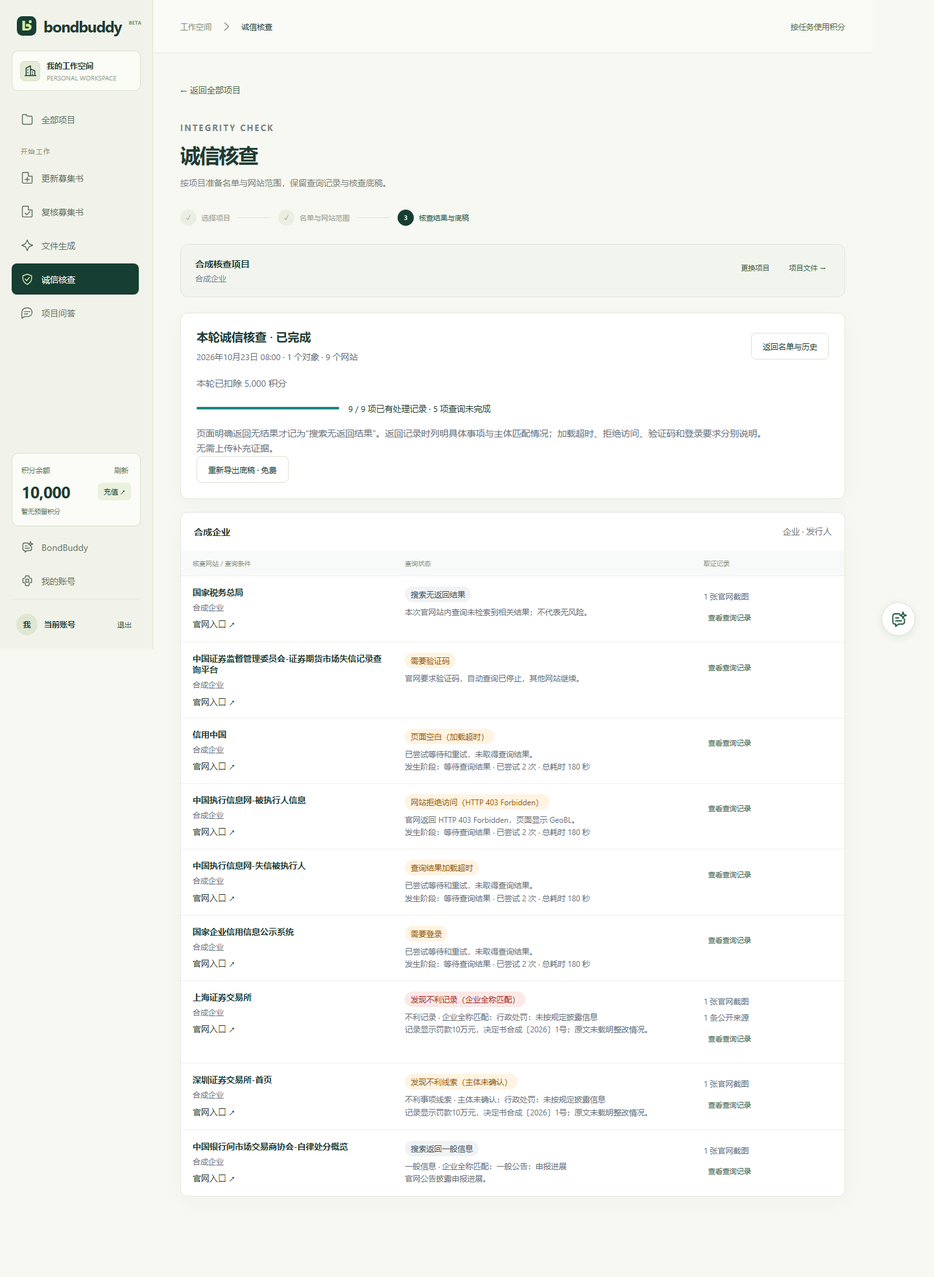
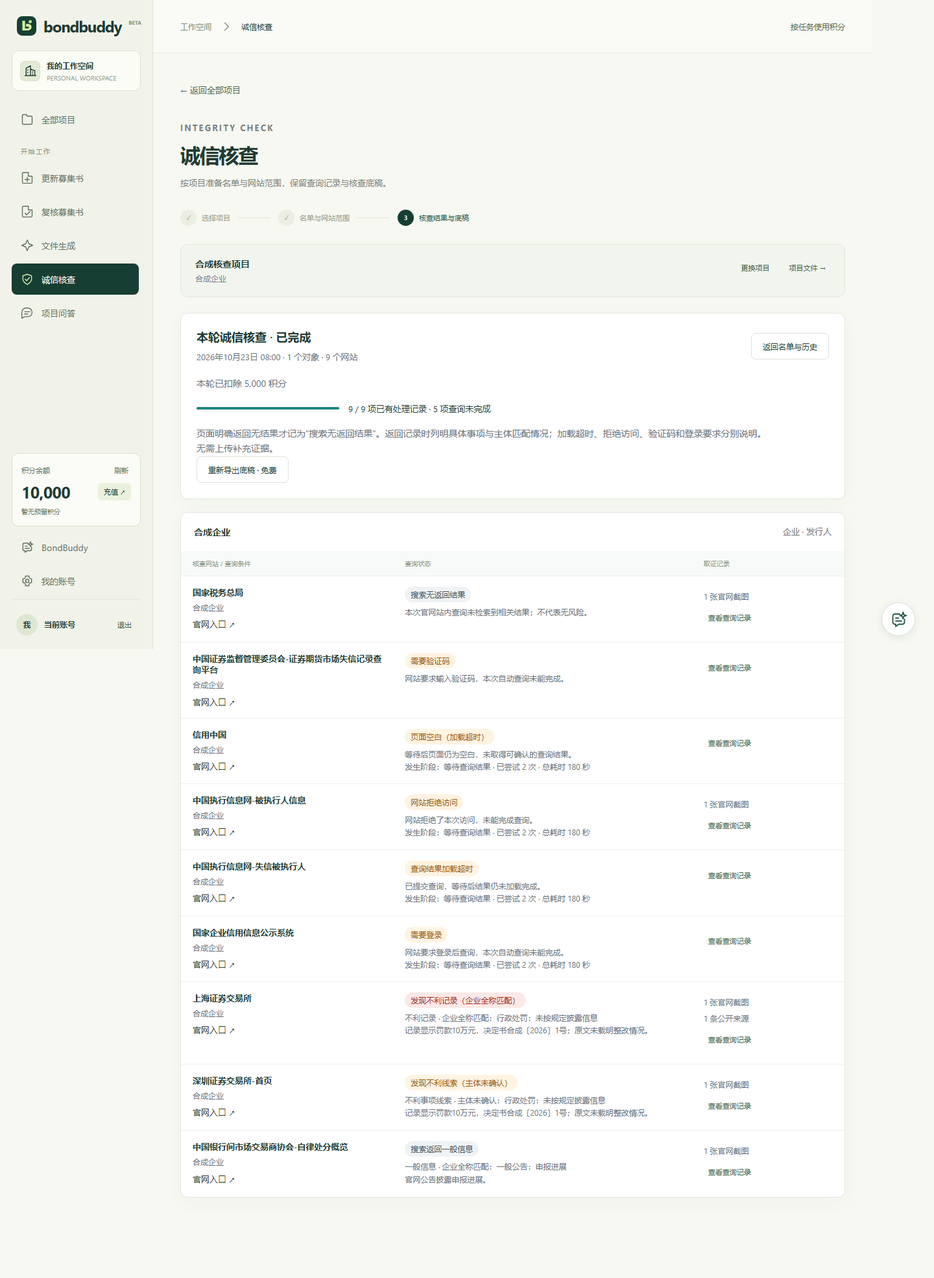
fix: use plain customer wording for integrity query failures

diff --git a/packages/contracts/src/integrity-presentation.ts b/packages/contracts/src/integrity-presentation.ts
@@ -3,22 +3,44 @@ import type {IntegrityDiagnostic,IntegrityFinding,IntegrityRecord} from './integ
 const diagnosticLabels:Record<IntegrityDiagnostic['code'],string>={
  results:'搜索返回结果',no_results:'搜索无返回结果',captcha_required:'需要验证码',login_required:'需要登录',authentication_required:'需要验证码和登录',
  access_denied:'网站拒绝访问',http_error:'网站响应错误',blank_page_timeout:'页面空白（加载超时）',page_load_timeout:'页面加载超时',
- result_load_timeout:'查询结果加载超时',query_form_unavailable:'查询控件未就绪',result_unverified:'本次查询结果未确认',network_error:'网络连接失败',page_error:'网站页面报错',operation_failed:'查询操作未完成'
+ result_load_timeout:'查询结果加载超时',query_form_unavailable:'查询页面尚未就绪',result_unverified:'本次查询结果未确认',network_error:'网络连接失败',page_error:'网站页面报错',operation_failed:'查询操作未完成'
 };
 export function integrityDiagnosticLabel(d:IntegrityDiagnostic){
- return diagnosticLabels[d.code]+(d.http_status?`（HTTP ${d.http_status}${d.http_status===403?' Forbidden':''}）`:'');
+ return diagnosticLabels[d.code];
 }
+const diagnosticDescriptions:Record<IntegrityDiagnostic['code'],string>={
+ results:'官网搜索返回结果，具体事项及主体关联以本次查询记录为准。',
+ no_results:'官网已响应本次查询，页面明确显示无结果；仅限本次查询词和页面范围。',
+ captcha_required:'网站要求输入验证码，本次自动查询未能完成。',
+ login_required:'网站要求登录后查询，本次自动查询未能完成。',
+ authentication_required:'网站要求登录并输入验证码，本次自动查询未能完成。',
+ access_denied:'网站拒绝了本次访问，未能完成查询。',
+ http_error:'网站未正常返回查询页面或结果，本次查询未完成。',
+ blank_page_timeout:'等待后页面仍为空白，未取得可确认的查询结果。',
+ page_load_timeout:'等待后查询页面仍未加载完成，未取得可确认的查询结果。',
+ result_load_timeout:'已提交查询，等待后结果仍未加载完成。',
+ query_form_unavailable:'页面已打开，但尚无法填写或提交查询，未取得可确认的结果。',
+ result_unverified:'已尝试查询，但尚不能确认页面内容是本次查询的结果。',
+ network_error:'未能正常连接查询网站，本次查询未完成。',
+ page_error:'网站页面显示错误，本次查询未完成。',
+ operation_failed:'本次查询操作未能完成，未取得可确认的查询结果。'
+};
 export function integrityFindingLabel(f:IntegrityFinding){
  if(f.subject_match==='different_subject')return '其他主体记录';
  if(f.subject_match==='unconfirmed')return f.nature==='adverse'?'不利事项线索 · 主体未确认':'搜索命中 · 主体未确认';
  return f.nature==='adverse'?'不利记录 · 企业全称匹配':f.nature==='information'?'一般信息 · 企业全称匹配':'事项性质待确认 · 企业全称匹配';
 }
 const cleanReason=(s:string)=>s.replace(/(?:[，；、\s]*(?:待人工补证|待补证|待人工补充信息|需要人工补充信息|请(?:人工)?上传补充证据))[。；]?/g,'').trim();
-export type IntegrityPresentation={label:string;description:string;tone:'neutral'|'warning'|'danger';group:'results'|'no_results'|'incomplete'|'not_applicable'};
+// These legacy collector phrases contain diagnostics, not business scope. Keep the saved text intact.
+const customerLimitation=(s:string)=>s
+ .replace(/截图直接采集隔离服务器桌面的完整屏幕，含浏览器和 XFCE 原生系统面板（北京时间），未叠加时间或绘制时钟栏；/g,'截图保留采集时的完整屏幕内容；')
+ .replace(/后续页面采集未完成[（(]net::[A-Z_]+[）)]/g,'后续页面采集未完成');
+export type IntegrityPresentation={label:string;description:string;limitation?:string;tone:'neutral'|'warning'|'danger';group:'results'|'no_results'|'incomplete'|'not_applicable'};
 /** One display contract for web and Word. Persisted historical observations are never rewritten. */
 export function integrityRecordPresentation(record:IntegrityRecord):IntegrityPresentation{
  const d=record.browser?.diagnostic,reason=cleanReason(record.reason);
- const view=(label:string,group:IntegrityPresentation['group'],tone:IntegrityPresentation['tone']='neutral',description=reason):IntegrityPresentation=>({label,group,tone,description});
+ const view=(label:string,group:IntegrityPresentation['group'],tone:IntegrityPresentation['tone']='neutral',description=reason):IntegrityPresentation=>({label,group,tone,description,...(record.browser?{limitation:customerLimitation(record.browser.limitation)}:{})});
+ const failure=(code:IntegrityDiagnostic['code'])=>view(diagnosticLabels[code],'incomplete','warning',diagnosticDescriptions[code]);
  if(record.status==='not_applicable')return view('不适用','not_applicable');
  if(record.status==='public_matches'){
   const findings=record.findings;
@@ -30,14 +52,17 @@ export function integrityRecordPresentation(record:IntegrityRecord):IntegrityPre
   return view('搜索返回结果（关联待确认）','results','warning',summary);
  }
  if(record.status==='no_public_results')return view('搜索无返回结果','no_results');
- if(d){const phase={open:'加载官网',query:'提交查询',results:'等待查询结果'}[d.phase];return view(integrityDiagnosticLabel(d),'incomplete','warning',`${reason}\n发生阶段：${phase}${d.attempts?` · 已尝试 ${d.attempts} 次`:''}${d.elapsed_ms!==undefined?` · 总耗时 ${Math.ceil(d.elapsed_ms/1000)} 秒`:''}`);}
+ // Derive customer copy from the cause; raw reason/detail/status remain available for diagnosis only.
+ if(d){const phase={open:'加载官网',query:'提交查询',results:'等待查询结果'}[d.phase];return view(integrityDiagnosticLabel(d),'incomplete','warning',`${diagnosticDescriptions[d.code]}\n发生阶段：${phase}${d.attempts?` · 已尝试 ${d.attempts} 次`:''}${d.elapsed_ms!==undefined?` · 总耗时 ${Math.ceil(d.elapsed_ms/1000)} 秒`:''}`);}
  // Historical free text can only support causes it explicitly records; do not guess a phase or status code.
  const http=reason.match(/\bHTTP\s*(4\d{2}|5\d{2})\b/i)??reason.match(/\b(403)\s*Forbidden\b/i);
- if(http)return view(integrityDiagnosticLabel({code:http[1]==='403'?'access_denied':'http_error',phase:'open',http_status:Number(http[1])}),'incomplete','warning');
- if(/拒绝访问|访问已被拦截|访问受限|Forbidden|GeoBL/i.test(reason))return view('网站拒绝访问','incomplete','warning');
- if(/验证码或登录|验证码\s*\/\s*登录/.test(reason))return view('验证码／登录受限（类型未记录）','incomplete','warning');
- if(/要求验证码|需要验证码/.test(reason))return view('需要验证码','incomplete','warning');
- if(/要求登录|需要登录|请先登录/.test(reason))return view('需要登录','incomplete','warning');
- if(/超时/.test(reason))return view('查询超时（阶段未记录）','incomplete','warning');
- return view('查询未完成（原因未记录）','incomplete','warning',reason?`${reason} 历史记录未保存可区分的失败原因。`:'历史记录未保存具体失败原因。');
+ if(http?.[1]==='403'||/拒绝访问|访问已被拦截|访问受限|Forbidden|GeoBL/i.test(reason))return failure('access_denied');
+ if(http)return failure('http_error');
+ if(/验证码或登录|验证码\s*\/\s*登录/.test(reason))return view('验证码／登录受限（类型未记录）','incomplete','warning','网站要求验证码或登录，历史记录未区分具体要求，本次查询未完成。');
+ if(/要求验证码|需要验证码/.test(reason))return failure('captcha_required');
+ if(/要求登录|需要登录|请先登录/.test(reason))return failure('login_required');
+ if(/net::ERR_|ECONNRESET|ECONNREFUSED|ENOTFOUND|网络连接失败/.test(reason))return failure('network_error');
+ if(/超时/.test(reason))return view('查询超时（阶段未记录）','incomplete','warning','等待后仍未完成查询，历史记录未说明在哪一步超时。');
+ if(/未能自动确定属地官网/.test(reason))return view('未能确定查询网站','incomplete','warning','未能自动确定属地官网，本项未完成查询。');
+ return view('查询未完成（原因未记录）','incomplete','warning','历史记录未保存可区分的失败原因，本次查询未完成。');
 }

diff --git a/apps/web/tests/integrity-browser.spec.ts b/apps/web/tests/integrity-browser.spec.ts
@@ -62,31 +62,36 @@ test('company region is inferred from a clear province prefix and existing value
 });
 
 test('historical access restrictions are not relabeled as captcha and require no upload',async({page})=>{
- const f=await fixture(page);f.state.rounds[0].records[1].reason='官网访问已被拦截。';
+ const f=await fixture(page);f.state.rounds[0].records[1].reason='官网返回 HTTP 403 Forbidden，页面显示 GeoBL，访问已被拦截。';
  await page.goto('/#integrity?project=project&run=round');
  await expect(page.getByText('需要验证码',{exact:true})).toHaveCount(0);
  await expect(page.getByText('网站拒绝访问',{exact:true})).toBeVisible();
  await page.getByRole('button',{name:'查看查询记录'}).nth(1).click();
  await expect(page.locator('dialog input[type=file]')).toHaveCount(0);
  await expect(page.getByText('本项未取得可用截图，无需上传补充证据。')).toBeVisible();
+ await expect(page.locator('dialog')).not.toContainText(/HTTP|403|Forbidden|GeoBL/);
 });
 
 test('precise result states and adverse facts are visible without an evidence upload flow',async({page})=>{
  await page.setViewportSize({width:1440,height:1000});const f=await fixture(page),round=f.state.rounds[0],base=round.records[0];
- const diagnostics:[string,IntegrityDiagnostic['code'],string][]=[['credit-china','blank_page_timeout','页面空白（加载超时）'],['execution-debtor','access_denied','网站拒绝访问（HTTP 403 Forbidden）'],['execution-dishonest','result_load_timeout','查询结果加载超时'],['gsxt','login_required','需要登录']];
+ const diagnostics:[string,IntegrityDiagnostic['code'],string][]=[['credit-china','blank_page_timeout','页面空白（加载超时）'],['execution-debtor','access_denied','网站拒绝访问'],['execution-dishonest','result_load_timeout','查询结果加载超时'],['gsxt','login_required','需要登录']];
  const finding:IntegrityFinding={capture_id:'capture',quote:'合成企业 因未按规定披露信息，于2026年10月1日被测试机关罚款10万元，决定书合成〔2026〕1号。',title:'行政处罚：未按规定披露信息',explanation:'记录显示罚款10万元，决定书合成〔2026〕1号；原文未载明整改情况。',nature:'adverse',subject_match:'company_name'};
- round.records.push(...diagnostics.map(([site_id,code])=>({...base,site_id,status:'query_failed' as const,reason:code==='access_denied'?'官网返回 HTTP 403 Forbidden，页面显示 GeoBL。':'已尝试等待和重试，未取得查询结果。',browser:{...base.browser!,outcome:'failed' as const,captures:[],diagnostic:{code,phase:'results' as const,attempts:2,elapsed_ms:180000,...(code==='access_denied'?{http_status:403}:{})}}})),
+ round.records.push(...diagnostics.map(([site_id,code])=>({...base,site_id,status:'query_failed' as const,reason:code==='access_denied'?'官网返回 HTTP 403 Forbidden，页面显示 GeoBL。':'已尝试等待和重试，未取得查询结果。',browser:{...base.browser!,outcome:'failed' as const,captures:[],diagnostic:{code,phase:'results' as const,attempts:2,elapsed_ms:180000,...(code==='access_denied'?{http_status:403,detail:'HTTP 403 Forbidden GeoBL'}:{})}}})),
  {...base,site_id:'sse',status:'public_matches',reason:'官网返回具体记录，企业全称匹配。',browser:{...base.browser!,outcome:'results'},findings:[finding],sources:[{url:'https://www.chinatax.gov.cn/',title:'合成行政处罚决定',quote:finding.quote,retrieved_at:time,tool_call_id:'capture',sha256:hash(finding.quote)}]},
  {...base,site_id:'szse',status:'public_matches',browser:{...base.browser!,outcome:'results'},findings:[{...finding,subject_match:'unconfirmed'}]},
  {...base,site_id:'nafmii-discipline',status:'public_matches',browser:{...base.browser!,outcome:'results'},findings:[{...finding,nature:'information',title:'一般公告：申报进展',explanation:'官网公告披露申报进展。'}]});
+ const denied=round.records.find(r=>r.site_id==='execution-debtor')!;denied.browser!.captures=[{...base.browser!.captures[0],kind:'blocker',title:'HTTP 403 Forbidden GeoBL'}];round.records.find(r=>r.site_id==='sse')!.browser!.limitation='后续页面采集未完成（net::ERR_CONNECTION_RESET），已取得的查询结果仍保留。';
  round.manifest.draft.site_ids=round.records.map(r=>r.site_id);
  await page.goto('/#integrity?project=project&run=round');
  for(const label of ['搜索无返回结果',...diagnostics.map(d=>d[2]),'发现不利记录（企业全称匹配）','发现不利线索（主体未确认）','搜索返回一般信息'])await expect(page.getByText(label,{exact:true})).toBeVisible();
  await expect(page.locator('.integrity-status-danger')).toHaveCount(1);
- await expect(page.locator('#integrity-records')).not.toContainText('待人工补证');
+ await expect(page.locator('#integrity-records')).not.toContainText(/待人工补证|HTTP|403|Forbidden|GeoBL|net::|ERR_/);
  const out=resolve('../../docs/acceptance/integrity-readiness-20261026');await page.screenshot({path:resolve(out,'precise-statuses-1440.png'),fullPage:true});
+ await page.locator('tr').filter({has:page.getByText('网站拒绝访问',{exact:true})}).getByRole('button',{name:'查看查询记录'}).click();
+ await expect(page.locator('dialog')).toContainText('网站拒绝了本次访问');await expect(page.locator('dialog')).not.toContainText(/HTTP|403|Forbidden|GeoBL|net::|ERR_/);
+ await page.screenshot({path:resolve(out,'access-denied-1440.png')});await page.locator('dialog').press('Escape');
  await page.locator('tr').filter({has:page.getByText('发现不利记录（企业全称匹配）',{exact:true})}).getByRole('button',{name:'查看查询记录'}).click();
- await expect(page.locator('dialog')).toContainText('罚款10万元');await expect(page.locator('dialog')).toContainText('合成〔2026〕1号');
+ await expect(page.locator('dialog')).toContainText('罚款10万元');await expect(page.locator('dialog')).toContainText('合成〔2026〕1号');await expect(page.locator('dialog')).not.toContainText(/HTTP|403|Forbidden|GeoBL|net::|ERR_/);
  await expect(page.getByRole('link',{name:'合成行政处罚决定 ↗'})).toBeVisible();
  await expect(page.locator('dialog input[type=file]')).toHaveCount(0);
  await page.screenshot({path:resolve(out,'adverse-record-1440.png')});

diff --git a/apps/worker/src/integrity-browser.ts b/apps/worker/src/integrity-browser.ts
@@ -82,13 +82,13 @@ export async function collectInContext(context:BrowserContext,site:IntegritySite
 async function collectAttempt(context:BrowserContext,site:IntegritySite,subject:Pick<IntegritySubject,'name'|'kind'|'province'|'city'>,signal:AbortSignal,limits:CollectionLimits,entry:string):Promise<BrowserCollection>{
  const capturePage=(page:Page,kind:BrowserCapture['kind'],n:number)=>capture(page,kind,n,limits.screenCapture);
  const query=integritySearchQuery(site,subject);
- const result:BrowserCollection={query,search_performed:false,outcome:'unverified',scope:`${site.name}官网站内查询；查询词：${query}。${site.topic}。`,limitation:(limits.screenCapture?'截图直接采集隔离服务器桌面的完整屏幕，含浏览器和 XFCE 原生系统面板（北京时间），未叠加时间或绘制时钟栏；仅覆盖屏幕可见区域。':'')+'仅覆盖实际截图的查询页面及已打开正文；不含登录后信息、未展示页或附件。全文搜索不等同于专项数据库核查，不能据此认定不存在违法失信。',reason:'未取得可核对的查询结果，无需上传补充证据。',captures:[]};
+ const result:BrowserCollection={query,search_performed:false,outcome:'unverified',scope:`${site.name}官网站内查询；查询词：${query}。${site.topic}。`,limitation:(limits.screenCapture?'截图保留采集时的完整屏幕内容；仅覆盖屏幕可见区域。':'')+'仅覆盖实际截图的查询页面及已打开正文；不含登录后信息、未展示页或附件。全文搜索不等同于专项数据库核查，不能据此认定不存在违法失信。',reason:'未取得可核对的查询结果，无需上传补充证据。',captures:[]};
  let page=await context.newPage();page.setDefaultTimeout(Math.min(limits.waitMs,15000));page.setDefaultNavigationTimeout(limits.waitMs);
  let onResponse:((response:Response)=>void)|undefined,onRequestFailed:((request:Request)=>void)|undefined;
  let phase:IntegrityDiagnostic['phase']='open';
  const navigationStatuses=new WeakMap<Page,number>();
  const onNavigation=(response:Response)=>{try{const frame=response.frame();if(response.request().isNavigationRequest()&&frame===frame.page().mainFrame())navigationStatuses.set(frame.page(),response.status());}catch{/* Popup navigation can precede creation of its frame. */}};
- const mark=(d:IntegrityDiagnostic,outcome:BrowserCollection['outcome']='failed',explanation='未取得可确认的查询结果。')=>{result.diagnostic=d;result.outcome=outcome;result.reason=`${integrityDiagnosticLabel(d)}。${explanation}${d.detail?` 页面反馈：${d.detail}`:''} 无需补充信息或上传证据。`;};
+ const mark=(d:IntegrityDiagnostic,outcome:BrowserCollection['outcome']='failed',explanation='未取得可确认的查询结果。')=>{result.diagnostic=d;result.outcome=outcome;result.reason=`${integrityDiagnosticLabel(d)}。${explanation} 无需补充信息或上传证据。`;};
  context.on('response',onNavigation);
  const diagnostic=async()=>{try{result.captures.push(await capturePage(page,'blocker',1));}catch{/* A blank/error document is never fabricated as evidence. */}};
  try{
@@ -165,7 +165,7 @@ async function collectAttempt(context:BrowserContext,site:IntegritySite,subject:
   result.limitation+=` 本次保留 ${result.captures.filter(c=>c.kind==='result').length} 页查询截图，最多采集 ${limits.maxPages} 页；未展示的结果不在本次核查范围内。`;
   return result;
  }catch(error){signal.throwIfAborted();const network=error instanceof Error?error.message.match(/net::[A-Z_]+/)?.[0]:undefined;
-  if(result.captures.some(c=>c.kind==='result')&&['results','no_results'].includes(result.outcome)){result.limitation+=` 后续页面采集未完成${network?`（${network}）`:''}，已取得的查询结果仍保留。`;return result;}
+  if(result.captures.some(c=>c.kind==='result')&&['results','no_results'].includes(result.outcome)){result.limitation+=' 后续页面采集未完成，已取得的查询结果仍保留。';if(result.diagnostic&&network)result.diagnostic.detail=network;return result;}
   const text=await visibleText(page).catch(()=>''),status=navigationStatuses.get(page)??0;
   if(status>=400||errors.test(text))mark(pageFailure(text,status,phase));
   else mark({code:network?'network_error':error instanceof Error&&error.name==='TimeoutError'?(!text.trim()?'blank_page_timeout':phase==='open'?'page_load_timeout':phase==='results'?'result_load_timeout':'operation_failed'):'operation_failed',phase,...(network?{detail:network}:{})});

diff --git a/apps/web/src/integrity-workspace.ts b/apps/web/src/integrity-workspace.ts
@@ -149,7 +149,7 @@ export class IntegrityWorkspace {
  private evidenceModal(r:IntegrityRound,s:IntegritySubject,siteId:string){
   const site=resolveIntegritySite(INTEGRITY_SITES.find(x=>x.id===siteId)!,s),record=r.records.find(x=>x.subject_id===s.id&&x.site_id===siteId),evidence=r.evidence.filter(e=>e.subject_id===s.id&&e.site_id===siteId);
   const view=record?integrityRecordPresentation(record):undefined;
-  const d=this.modal(`${s.name} · ${site.name}`,`<p>${links(site)}</p>${view?statusChip(view):''}<p class="integrity-result-description">${esc(record?.findings?.length?record.reason:view?.description??'尚无查询记录。')}</p>${record?`<p>查询时间：${esc(date(record.checked_at))}</p><p>实际查询：${esc(record.query||'未记录')}</p>`:''}${record?.findings?.map(f=>{const source=record.sources.find(s=>s.tool_call_id===f.capture_id&&s.quote===f.quote);return `<article class="integrity-finding"><h3>${esc(f.title)}</h3><small>${esc(integrityFindingLabel(f))}</small><p>${esc(f.explanation)}</p><blockquote><p>${esc(f.quote)}</p>${source?`<a href="${esc(source.url)}" target="_blank" rel="noopener noreferrer">${esc(source.title||'官网记录')} ↗</a><small>${esc(date(source.retrieved_at))}</small>`:''}</blockquote></article>`;}).join('')??''}${(record?.findings?.length?[]:record?.sources)?.map(source=>`<blockquote><a href="${esc(source.url)}" target="_blank" rel="noopener noreferrer">${esc(source.title)}</a><p>${esc(source.quote)}</p><small>${esc(date(source.retrieved_at))} · 公开来源，需核对主体与事项</small></blockquote>`).join('')??''}<div data-auto-evidence></div>${evidence.length?`<h3>历史补充证据</h3>${evidence.map((e,i)=>`<div class="integrity-evidence"><strong>${e.conclusion==='records_found'?'发现记录':e.conclusion==='no_records'?'该次查询未发现记录':'仍待核实'}（用户提交）</strong><p>${esc(e.note)}</p><small>${esc(date(e.queried_at))}</small><button class="text-button" data-download-evidence="${i}">下载原始证据</button></div>`).join('')}`:''}`);
+  const d=this.modal(`${s.name} · ${site.name}`,`<p>${links(site)}</p>${view?statusChip(view):''}<p class="integrity-result-description">${esc(record?.findings?.length?'具体事项、主体匹配情况及官网原文如下。':view?.description??'尚无查询记录。')}</p>${record?`<p>查询时间：${esc(date(record.checked_at))}</p><p>实际查询：${esc(record.query||'未记录')}</p>`:''}${record?.findings?.map(f=>{const source=record.sources.find(s=>s.tool_call_id===f.capture_id&&s.quote===f.quote);return `<article class="integrity-finding"><h3>${esc(f.title)}</h3><small>${esc(integrityFindingLabel(f))}</small><p>${esc(f.explanation)}</p><blockquote><p>${esc(f.quote)}</p>${source?`<a href="${esc(source.url)}" target="_blank" rel="noopener noreferrer">${esc(source.title||'官网记录')} ↗</a><small>${esc(date(source.retrieved_at))}</small>`:''}</blockquote></article>`;}).join('')??''}${(record?.findings?.length?[]:record?.sources)?.map(source=>`<blockquote><a href="${esc(source.url)}" target="_blank" rel="noopener noreferrer">${esc(source.title)}</a><p>${esc(source.quote)}</p><small>${esc(date(source.retrieved_at))} · 公开来源，需核对主体与事项</small></blockquote>`).join('')??''}<div data-auto-evidence></div>${evidence.length?`<h3>历史补充证据</h3>${evidence.map((e,i)=>`<div class="integrity-evidence"><strong>${e.conclusion==='records_found'?'发现记录':e.conclusion==='no_records'?'该次查询未发现记录':'仍待核实'}（用户提交）</strong><p>${esc(e.note)}</p><small>${esc(date(e.queried_at))}</small><button class="text-button" data-download-evidence="${i}">下载原始证据</button></div>`).join('')}`:''}`);
   mountIntegrityBrowserEvidence(d,record,this.api,this.id!,r.round_id,this.controller.signal);
   d.querySelectorAll<HTMLButtonElement>('[data-download-evidence]').forEach(b=>b.addEventListener('click',()=>void this.act(async()=>{const pin=evidence[Number(b.dataset.downloadEvidence)].material,m=await this.api.material(this.id!,pin.material_id,this.controller.signal,pin.material_version);if(m.sha256!==pin.sha256)throw Error('证据内容已变化，请刷新后重试。');const bytes=await this.api.materialBytes(this.id!,m,this.controller.signal);if(this.live())this.downloads.save(bytes,m.filename);} )));
  }

diff --git a/apps/web/src/integrity-browser-evidence.ts b/apps/web/src/integrity-browser-evidence.ts
@@ -1,10 +1,10 @@
-import type {IntegrityRecord} from '@bondbuddy/contracts';
+import {integrityRecordPresentation,type IntegrityRecord} from '@bondbuddy/contracts';
 import type {ApiClient} from './api';
 import {esc,date} from './ui';
 export function mountIntegrityBrowserEvidence(dialog:HTMLDialogElement,record:IntegrityRecord|undefined,api:ApiClient,project:string,round:string,signal:AbortSignal){
  if(!record?.browser)return;
  const browser=record.browser,section=document.createElement('section');section.className='integrity-browser-evidence';
- section.innerHTML=`<h3>官网自动取证</h3><p>${esc(browser.scope)}</p><p class="muted">${esc(browser.limitation)}</p>${browser.captures.map((c,i)=>`<figure><figcaption>${c.kind==='blocker'?'查询未完成时的页面':c.kind==='detail'?'记录正文':'查询结果'} · ${esc(date(c.captured_at))}</figcaption><a href="${esc(c.url)}" target="_blank" rel="noopener noreferrer">${esc(c.title||'官网页面')} ↗</a><button class="text-button" type="button" data-auto-capture="${i}">查看官网截图</button><div data-auto-preview="${i}"></div></figure>`).join('')||'<p>本项未取得可用截图，无需上传补充证据。</p>'}`;
+ section.innerHTML=`<h3>官网自动取证</h3><p>${esc(browser.scope)}</p><p class="muted">${esc(integrityRecordPresentation(record).limitation??'')}</p>${browser.captures.map((c,i)=>`<figure><figcaption>${c.kind==='blocker'?'查询未完成时的页面':c.kind==='detail'?'记录正文':'查询结果'} · ${esc(date(c.captured_at))}</figcaption><a href="${esc(c.url)}" target="_blank" rel="noopener noreferrer">${esc(c.kind==='blocker'?'查询网站':c.title||'官网页面')} ↗</a><button class="text-button" type="button" data-auto-capture="${i}">查看官网截图</button><div data-auto-preview="${i}"></div></figure>`).join('')||'<p>本项未取得可用截图，无需上传补充证据。</p>'}`;
  dialog.querySelector('[data-auto-evidence]')?.append(section);
  const urls:string[]=[];let closed=false;
  const cleanup=()=>{closed=true;urls.splice(0).forEach(u=>URL.revokeObjectURL(u));};

diff --git a/apps/worker/src/integrity-readiness.test.ts b/apps/worker/src/integrity-readiness.test.ts
@@ -94,7 +94,7 @@ test('page readiness, query conditions, retries and honest results in real Chrom
   });
   for(const status of [403,400,503])await t.test(`HTTP ${status} is preserved even for an empty response`,async()=>{
    const context=await browser.newContext();await context.route('**/*',route=>route.fulfill({status,contentType:'text/html',body:html(status===403?'403 Forbidden GeoBL':'')}));
-   try{const r=await collectInContext(context,site,subject,new AbortController().signal,options);assert.equal(r.diagnostic?.http_status,status);assert.equal(r.diagnostic?.code,status===403?'access_denied':'http_error');assert.match(r.reason,new RegExp('HTTP '+status));if(status===403)assert.match(r.diagnostic?.detail??'',/GeoBL/);}finally{await context.close();}
+   try{const r=await collectInContext(context,site,subject,new AbortController().signal,options);assert.equal(r.diagnostic?.http_status,status);assert.equal(r.diagnostic?.code,status===403?'access_denied':'http_error');assert.match(r.reason,status===403?/网站拒绝访问/:/网站响应错误/);assert.doesNotMatch(r.reason,/HTTP|Forbidden|GeoBL/);if(status===403)assert.match(r.diagnostic?.detail??'',/GeoBL/);}finally{await context.close();}
   });
   await t.test('network failure is reported without claiming an empty search',async()=>{
    const context=await browser.newContext();await context.route('**/*',route=>route.abort('namenotresolved'));

diff --git a/python/tests/test_integrity_report.py b/python/tests/test_integrity_report.py
@@ -59,13 +59,17 @@ class IntegrityReportTest(unittest.TestCase):
 
     def test_exact_diagnostic_and_adverse_fact_reach_both_summary_and_detail(self):
         with tempfile.TemporaryDirectory() as td:
-            labels=['搜索无返回结果','页面空白（加载超时）','网站拒绝访问（HTTP 403 Forbidden）','发现不利记录（企业全称匹配）']
-            records=[{'subject_id':'s','site_id':str(i),'site_name':'合成官网'+str(i),'status':'public_matches' if i==3 else 'no_public_results' if i==0 else 'query_failed','reason':'旧概括，待人工补证','query':'合成企业','checked_at':'2026-10-26T00:00:00Z','search_performed':True,'sources':[], 'presentation':{'label':label,'description':'行政处罚：未按规定披露信息；记录显示罚款10万元。' if i==3 else '已记录准确查询原因。'}} for i,label in enumerate(labels)]
+            labels=['搜索无返回结果','页面空白（加载超时）','网站拒绝访问','发现不利记录（企业全称匹配）']
+            descriptions=['官网已响应本次查询，页面明确显示无结果。','等待后页面仍为空白。','网站拒绝了本次访问，未能完成查询。','行政处罚：未按规定披露信息；记录显示罚款10万元。']
+            records=[{'subject_id':'s','site_id':str(i),'site_name':'合成官网'+str(i),'status':'public_matches' if i==3 else 'no_public_results' if i==0 else 'query_failed','reason':'HTTP 403 Forbidden GeoBL，待人工补证','query':'合成企业','checked_at':'2026-10-26T00:00:00Z','search_performed':True,'sources':[], 'presentation':{'label':label,'description':descriptions[i],'limitation':'仅覆盖本次查询页面。'}} for i,label in enumerate(labels)]
+            records[2]['browser']={'outcome':'failed','scope':'合成范围','limitation':'net::ERR_CONNECTION_RESET','diagnostic':{'http_status':403,'detail':'403 Forbidden GeoBL'}}
             data={'input':{'project_name':'合成测试','draft':{'subjects':[{'id':'s','name':'合成企业','kind':'company'}],'site_ids':[str(i) for i in range(4)]}},'records':records}
             target=Path(td)/'out.docx';generate(data,target);d=Document(target)
             self.assertEqual([row.cells[1].text for row in d.tables[0].rows[1:]],labels)
             text='\n'.join(p.text for p in d.paragraphs)
             for label in labels: self.assertIn('查询状态：'+label,text)
             self.assertIn('记录显示罚款10万元',text);self.assertNotIn('待人工补证',text)
+            self.assertIn('仅覆盖本次查询页面',text)
+            self.assertNotRegex(text, r'HTTP|403|Forbidden|GeoBL|net::|ERR_')
 
 if __name__=='__main__': unittest.main()

diff --git a/python/bondbuddy_file_authoring/integrity_report.py b/python/bondbuddy_file_authoring/integrity_report.py
@@ -18,9 +18,9 @@ from PIL import Image
 TEMPLATE = Path(__file__).parent / 'templates' / 'integrity-workpaper.docx'
 PICTURE_WIDTH = 5274310
 # The worker supplies presentation from the shared contracts module, including for old records.
-# Direct legacy callers retain their recorded text; do not invent missing diagnostics here.
+# Direct legacy callers have no display classification; do not expose raw diagnostic text or invent a cause.
 def presentation(record):
-    return record.get('presentation', {'label': '历史查询记录（状态详情未提供）', 'description': record['reason']})
+    return record.get('presentation', {'label': '历史查询记录（状态详情未提供）', 'description': '历史记录未提供可展示的查询详情。'})
 CONCLUSION = {'records_found': '发现记录', 'no_records': '该次查询未发现记录', 'unresolved': '仍待核实'}
 
 def beijing(value):
@@ -162,7 +162,7 @@ def generate(data, target):
                 para('来源：' + source['title'] + ' ' + source['url'], small=True)
             if r.get('browser'):
                 para('查询范围：' + r['browser']['scope'], small=True)
-                limitation = r['browser']['limitation']
+                limitation = presentation(r).get('limitation', '本次记录未提供可展示的覆盖说明。')
                 if limitation not in seen_limitations:
                     para('覆盖限制（相同限制后文不再重复）：' + limitation, small=True)
                     seen_limitations.add(limitation)

diff --git a/docs/acceptance/integrity-readiness-20261026/README.md b/docs/acceptance/integrity-readiness-20261026/README.md
@@ -13,7 +13,8 @@
 
 ## 结果状态细分（2026-10-26 用户补充要求）
 
-- 新采集保存结构化原因、发生阶段、HTTP 状态、可见错误摘要、尝试次数及实际耗时。分别显示搜索无返回结果、搜索返回结果、页面空白、页面加载超时、查询结果加载超时、查询控件未就绪、本次结果未确认、网站拒绝访问、HTTP 响应错误、网络连接失败、验证码、登录及操作未完成。没有具体失败原因的历史记录明确标注未记录，不推测 HTTP 状态或认证要求。
+- 新采集保存结构化原因、发生阶段、HTTP 状态、可见错误摘要、尝试次数及实际耗时。分别显示搜索无返回结果、搜索返回结果、页面空白、页面加载超时、查询结果加载超时、查询页面尚未就绪、本次结果未确认、网站拒绝访问、网站响应错误、网络连接失败、验证码、登录及操作未完成。没有具体失败原因的历史记录明确标注未记录，不推测 HTTP 状态或认证要求。
+- 客户文案使用“网站拒绝访问”“网站响应错误”等中文说明。HTTP 状态码、Forbidden、GeoBL 和网络错误代码只保留在后台诊断及原始证据中，不拼入列表、详情或 Word 的状态说明；旧记录也经过相同展示处理，不修改已保存事实。原始官网截图和引文保持原样。
 - 结果页与 Word 共用 contracts 中的状态展示函数。无结果使用中性状态；明确不利记录突出显示。未执行网站在任务结束后显示未执行，不继续显示等待查询。
 - 新版解读将具体事项、逐字引文、来源截图、事项性质及主体匹配情况持久化。企业全称匹配的不利记录、身份未确认的不利线索、一般信息与其他主体记录分别展示；人员同名不能标为身份已确认。模型给出的每条引文必须实际存在于指定截图文字中，企业全称匹配的引文必须包含企业全称。原文未载明的处罚状态、整改、日期和金额不能补写。
 - 增加可选 browser.diagnostic 和 findings，不重写已哈希保存的记录，无数据库迁移。由不可变采集批次决定模型解读版本：历史无诊断批次沿用 v1，新批次使用 assessment-v2，暂停恢复不会额外切换版本或重复解读。
@@ -54,7 +55,7 @@ Windows，已有 Node 22.14 / Chromium 1243；部分定向浏览器回归使用 
 | 1440×960 结果页 | [原结果页](before-results-1440.png) | [结果页](results-1440.png) |
 | 390×960 证据弹窗 | [原补证弹窗](before-evidence-390.png) | [查询记录弹窗](evidence-390.png) |
 
-补充状态矩阵与具体不利事项展示：[精确状态矩阵](precise-statuses-1440.png)、[不利记录详情](adverse-record-1440.png)。本轮是既有 PR #744 / `f5049c0` 的状态细分增量，按用户追加截图要求调整文案与事项显示；布局沿用上述原型。
+补充状态矩阵与具体不利事项展示：[精确状态矩阵](precise-statuses-1440.png)、[不利记录详情](adverse-record-1440.png)、[拒绝访问详情](access-denied-1440.png)。本轮是既有 PR #744 / `f5049c0` 的状态细分增量，按用户追加截图要求调整文案与事项显示；布局沿用上述原型。
 
 以上为合成页面测试截图；官网真实查询诊断未提交到仓库。
 
@@ -63,3 +64,9 @@ Windows，已有 Node 22.14 / Chromium 1243；部分定向浏览器回归使用 
 本批无数据库迁移、无新增依赖或费用规则变化。需要一起更新 web、API、worker 及国内 `integrity-egress` 代理代码；仅更新 worker 会遗留旧代理的 30 秒断开限制。继续使用原域名白名单、公开地址校验、代理约束、私有证据存储和既有桌面截图组件。
 
 旧轮次已经持久化的失败记录不会因升级自动重跑或被篡改；新尝试发生在新执行的站点采集内，不额外创建收费轮次。由指定集成测试 chat 汇总固定版本、按真实后端范围提供用户验收；本地网页测试端口仅用于开发回归，不作为完整用户验收版交付。代码完成，尚未部署，待统一发布。
+
+## 客户文案增量验证（2026-10-26）
+
+按用户要求，网页列表、详情及新导出的 Word 不再拼入 HTTP 状态码、Forbidden、GeoBL 或网络错误代码；这些信息仍保存在不可变采集诊断及原始证据中。历史失败记录也通过同一中文展示函数读取。已核对拒绝访问详情与状态矩阵截图，无新增页面或上传步骤。
+
+本次完整 build 与 contracts 检查通过；采集器与网络回归 43/43（0 跳过）、共享状态展示 4/4、网页 6/6、Python Word 4/4 通过。先前 API/数据库/队列/积分端到端结果见上文，本次文案增量未重复该组端到端。官网访问与真实模型的边界不变，本次未重新探测实站。

diff --git a/docs/M1-TECH-ARCHITECTURE.md b/docs/M1-TECH-ARCHITECTURE.md
@@ -846,4 +846,4 @@ Spec没有提供独立全文修订价；review_revision 不写入价目表、不
 
 截图基准扩展为 52 个网站/栏目，加 2 项注册地监管。contracts 中维护唯一目录与容量，保留旧网站 ID，web 使用分类紧凑选择器，API 默认空范围，worker 以栏目主题或路径区分同域搜索。无新增迁移与依赖，计费仍为每轮 5,000 积分。详见 [增量验收](acceptance/integrity-sites-20261022/README.md)。
 
-2026-10-26 状态增量：contracts 新增可选 `browser.diagnostic` 与结构化 `findings`，web 与 Word 共用 `integrityRecordPresentation`。HTTP/空白/加载阶段/认证要求按观察记录；具体不利事项、一般信息与主体未确认分别展示。旧采集批次沿用 v1 模型结果，新批次固定 assessment-v2；记录与证据哈希不重写。无新增迁移，详细状态和回归见上述开发验证。
+2026-10-26 状态增量：contracts 新增可选 `browser.diagnostic` 与结构化 `findings`，web 与 Word 共用 `integrityRecordPresentation`。HTTP/空白/加载阶段/认证要求按观察记录；客户界面与 Word 使用“网站拒绝访问”等中文说明，原始 HTTP 状态、网络错误与页面错误摘要仅留在诊断数据中，不直接拼入展示文案。历史记录使用同一展示规则，业务范围和原始证据保留。具体不利事项、一般信息与主体未确认分别展示。旧采集批次沿用 v1 模型结果，新批次固定 assessment-v2；记录与证据哈希不重写。无新增迁移，详细状态和回归见上述开发验证。
